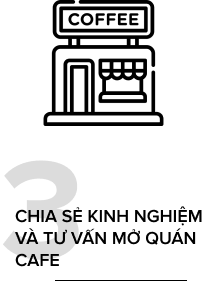
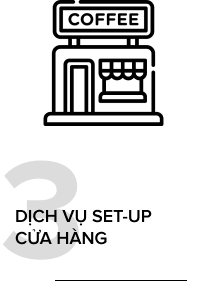
z

Changed region(s): [[0.0571, 0.6877, 0.9714, 0.897]]

diff --git a/src/components/Contact.vue b/src/components/Contact.vue
@@ -16,7 +16,7 @@
                 <p>{{contact.address}}</p>
 
                 <h3 class="contact-title">Hotline</h3>
-                <p>Tư vấn khóa học: {{contact.phone_first}}</p>
+                <p>Tư vấn khóa học: {{contact.phone_first}} / {{contact.phone_second}}</p>
                 <p>Tư vấn mở quán: {{contact.phone_first}}</p>
                 <p>Tư vấn thiết bị: {{contact.phone_first}}</p>
 
@@ -51,26 +51,26 @@
                     <div class="form-group flex">
                         <div class="form-column">
                             <label><span class="required">*</span> Họ tên</label>
-                            <input type="text">
+                            <input type="text" name="name" required v-model="contactData.name">
                         </div>
 
                         <div class="form-column">
                             <label><span class="required">*</span> Số điện thoại</label>
-                            <input type="text">
+                            <input type="text" name="phone" required v-model="contactData.phone">
                         </div>
                     </div>
 
                     <div class="form-group">
                         <label><span class="required">*</span> Email</label>
-                        <input type="text">
+                        <input type="email" name="email" required v-model="contactData.email">
                     </div>
 
                     <div class="form-group">
                         <label><span class="required">*</span> Lời nhắn</label>
-                        <textarea name="" id="" cols="30" rows="10"></textarea>
+                        <textarea id="" cols="30" rows="10" name="mesage" required v-model="contactData.mesage"></textarea>
                     </div>
 
-                    <a href="javascript:;" class="form-submit">Gửi lời nhắn</a>
+                    <a href="javascript:;" class="form-submit" @click="submit">Gửi lời nhắn</a>
                 </div>
             </div>
         </div>
@@ -81,7 +81,25 @@
 
 <script>
 export default {
-    props: ['contact']
+    props: ['contact'],
+    data() {
+        return {
+            contactData: {
+                name: '',
+                phone: '',
+                email: '',
+                message: ''
+            }
+        }
+    },
+    methods: {
+        submit: function() {
+            this.$http.post(this.$api + '/customer', this.contactData)
+                        .then(response => {
+                            alert(response.data.message)
+                        })
+        }
+    }
 }
 </script>
 

diff --git a/src/components/pages/home/Video.vue b/src/components/pages/home/Video.vue
@@ -8,12 +8,20 @@
                 <swiper-slide class="video-item" v-for="(slide, index) in swiperVideoSlides" :key="index">
                     <div class="video-item--thumb">
                         <img :src="slide.thumbnail" alt="">
-                        <span class="btnPlay"><i class="fal fa-play-circle"></i></span>
+                        <span class="btnPlay" @click="showVideoModal" :data-video="slide.embed"><i class="fal fa-play-circle"></i></span>
                     </div>
-                    <a href="#" class="video-item--title">{{slide.title}}</a>
+                    <a href="javascript:void(0);" class="video-item--title" @click="showVideoModal" :data-video="slide.embed">{{slide.title}}</a>
                     <p class="video-item--description">{{slide.description.length <= 150 ? slide.description : slide.description.substring(0, 150) + '...'}}</p>
                 </swiper-slide>
             </swiper>
+
+            <div class="video-modal hidden" id="videoWrapper" @click="closeModal">
+                <div class="video-modal--wrap">
+                    <div class="video-modal--wrap-main">
+                        <iframe src="https://www.youtube.com/embed/" frameborder="0" allow="accelerometer; autoplay; encrypted-media; gyroscope; picture-in-picture" allowfullscreen id="videoModal"></iframe>
+                    </div>
+                </div>
+            </div>
         </div>
     </div>
 </template>
@@ -36,6 +44,29 @@ export default {
                 this.swiperVideoSlides = response.data
                 return this.swiperVideoSlides;
             })
+    },
+    methods: {
+        showVideoModal: function() {
+            var video = event.currentTarget.getAttribute('data-video'),
+                modelEl = document.getElementById('videoWrapper'),
+                videoEl = document.getElementById('videoModal'),
+                defaultSrc = 'https://www.youtube.com/embed/';
+
+            var src = defaultSrc + video;
+            
+            document.body.classList.add('locked');
+            modelEl.classList.remove('hidden');
+            videoEl.setAttribute('src', src);
+        },
+        closeModal: function() {
+            var modelEl = document.getElementById('videoWrapper'),
+                videoEl = document.getElementById('videoModal'),
+                defaultSrc = 'https://www.youtube.com/embed/';
+
+            document.body.classList.remove('locked');
+            modelEl.classList.add('hidden');
+            videoEl.setAttribute('src', defaultSrc);
+        }
     }
 }
 </script>

diff --git a/src/components/layouts/Payment.vue b/src/components/layouts/Payment.vue
@@ -1,5 +1,5 @@
 <template>
-    <div class="payment">
+    <div class="payment" id="payment">
         <div class="payment-wrapper container">
             <div class="payment-title">Cách Thức Thanh Toán</div>
             <p class="payment-description">Bạn có thể đăng kí học bằng 1 trong 2 cách sau</p>
@@ -30,21 +30,21 @@
                         <div class="payment-form--group flex">
                             <div class="payment-form--column">
                                 <label>Họ tên</label>
-                                <input type="text">
+                                <input type="text" v-model="contactData.name" required>
                             </div>
 
                             <div class="payment-form--column">
                                 <label>Số điện thoại</label>
-                                <input type="text">
+                                <input type="text" v-model="contactData.phone" required>
                             </div>
                         </div>
 
                         <div class="payment-form--group">
                             <label>Email</label>
-                            <input type="text">
+                            <input type="text" v-model="contactData.email" required>
                         </div>
 
-                        <a href="#" class="payment-submit">Đăng ký ngay</a>
+                        <a href="javascript:void(0);" class="payment-submit" @click="submit">Đăng ký ngay</a>
                     </div>
 
                     <div class="payment-notice">
@@ -60,7 +60,24 @@
 
 <script>
 export default {
-
+    data() {
+        return {
+            contactData: {
+                name: '',
+                phone: '',
+                email: '',
+                message: ''
+            }
+        }
+    },
+    methods: {
+        submit: function() {
+            this.$http.post(this.$api + '/customer', this.contactData)
+                        .then(response => {
+                            alert(response.data.message)
+                        })
+        }
+    }
 }
 </script>
 

diff --git a/src/components/CourseDetail.vue b/src/components/CourseDetail.vue
@@ -17,7 +17,7 @@
                     <p class="cdetail-info--price">Học phí: {{course.price}}VNĐ</p>
                     <div class="btn-group">
                         <router-link :to="{name: 'course'}" class="btn"><i class="fal fa-chevron-left"></i> Các khóa học khác</router-link>
-                        <router-link :to="'/#'" class="btn btnRed">Đăng ký ngay</router-link>
+                        <router-link :to="'/#'" class="btn btnRed" @click="scrollToContact">Đăng ký ngay</router-link>
                     </div>
                     <p class="cdetail-info--note">* Khóa học gồm {{course.session}} buổi học x {{course.time}} tiếng mỗi buổi. Hãy đảm bảo bạn sắp xếp được thời gian.</p>
                 </div>
@@ -155,7 +155,7 @@ export default {
                 slidesPerView: 3,
                 spaceBetween: 20
             },
-            swiperGallerySlides: ''
+            swiperGallerySlides: '',
         }
     },
     beforeCreate() {
@@ -187,7 +187,7 @@ export default {
                 sessionItems[i].classList.remove('hidden')
             }
             event.target.style.display = "none";
-        }
+        },
     }
 }
 </script>

diff --git a/src/components/Course.vue b/src/components/Course.vue
@@ -17,7 +17,7 @@
                     <p class="course-item--info">Học phí: {{course.price}} VND/{{course.session}} buổi học/khóa (Thực hành không giới hạn)</p>
 
                     <div class="btn-group">
-                        <a href="javascript:;" class="btn btnRed">Đăng ký ngay</a>
+                        <a href="javascript:void(0);" class="btn btnRed" @click="scrollToContact">Đăng ký ngay</a>
                         <router-link :to="{name: 'course-detail', params: {id: course.id}}" class="btn btnWhite">Tìm hiểm thêm</router-link>
                     </div>
                 </div>
@@ -49,6 +49,12 @@ export default {
                         this.courses = response.data;
                         return this.courses
                     })
+    },
+    methods: {
+        scrollToContact: function() {
+            console.log(document.getElementById('payment').offsetTop)
+            window.scrollTo(0, document.getElementById('payment').offsetTop)
+        }
     }
 }
 </script>

diff --git a/src/assets/css/scss/pages/_home.scss b/src/assets/css/scss/pages/_home.scss
@@ -345,6 +345,36 @@
                 padding-right: 20px;
             }
         }
+        &-modal {
+            position: fixed;
+            top: 0;
+            bottom: 0;
+            left: 0;
+            right: 0;
+            background-color: rgba($black, .5);
+            z-index: 9999;
+            display: flex;
+            justify-content: center;
+            align-items: center;
+            &.hidden {
+                display: none;
+            }
+            &--wrap {
+                width: 980px;
+                &-main {
+                    width: 100%;
+                    padding-bottom: 56.25%;
+                    position: relative;
+                    iframe {
+                        position: absolute;
+                        top: 0;
+                        left: 0;
+                        width: 100%;
+                        height: 100%;
+                    }
+                }
+            }
+        }
     }
 
     .comment {

diff --git a/src/Main.vue b/src/Main.vue
@@ -20,7 +20,7 @@ export default {
                 address: 'Ô 3 Lô 4A KĐT Đền Lừ 2 - P. Hoàng Văn Thụ - Q. Hoàng Mai - Tp. Hà Nội',
                 facebook: 'https://www.facebook.com/hocphache.vn/',
                 instagram: '',
-                youtube: '',
+                youtube: 'https://www.youtube.com/channel/UCuqz2zxDAb1Sm9cf4NFH6yw',
                 map: '<iframe src="https://www.google.com/maps/embed?pb=!1m18!1m12!1m3!1d3725.203401217889!2d105.85613791540206!3d20.98448219466341!2m3!1f0!2f0!3f0!3m2!1i1024!2i768!4f13.1!3m3!1m2!1s0x3135ac6db365c785%3A0xdf353ac76f24762f!2zVHJ1bmcgdMOibSDEkcOgbyB04bqhbyBwaGEgY2jhur8gQmFyaXN0YSBTa2lsbHM!5e0!3m2!1svi!2s!4v1569700097917!5m2!1svi!2s" width="600" height="450" frameborder="0" style="border:0;" allowfullscreen=""></iframe>'
             }
         }

diff --git a/src/components/layouts/Footer.vue b/src/components/layouts/Footer.vue
@@ -17,13 +17,13 @@
 
                 <ul class="footer-list">
                     <li class="footer-item">
-                        <a href="#">Đào tạo pha chế</a>
+                        <a href="#">Đào tạo pha chế chuyên nghiệp</a>
                     </li>
                     <li class="footer-item">
-                        <a href="#">Tư vấn và Setup quán</a>
+                        <a href="#">Cung cấp máy móc, dụng cụ, nguyên liệu pha chế</a>
                     </li>
                     <li class="footer-item">
-                        <a href="#">Cung cấp nguyên liệu, dụng cụ và máy móc pha chế</a>
+                        <a href="#">Dịch vụ SET-UP cửa hàng</a>
                     </li>
                 </ul>
             </div>

diff --git a/src/components/layouts/Navigator.vue b/src/components/layouts/Navigator.vue
@@ -1,5 +1,5 @@
 <template>
-    <nav class="nav">
+    <nav class="nav" id="navigator">
         <div class="nav-wrapper container">
             <div class="nav-logo">
                 <router-link :to="{name: 'home'}">
@@ -33,7 +33,16 @@
 
 <script>
 export default {
-
+    mounted() {
+        window.addEventListener('scroll', function() {
+            var scrollTop = window.scrollY;
+            if(scrollTop > 50) {
+                document.getElementById('navigator').classList.add('fixed')
+            } else {
+                document.getElementById('navigator').classList.remove('fixed')
+            }
+        })
+    }
 }
 </script>
 

diff --git a/src/components/pages/home/Service.vue b/src/components/pages/home/Service.vue
@@ -5,7 +5,7 @@
             <p class="service-description">Đào Tạo Chuyên Nghiệp - Cầm Tay Chỉ Việc Từ A-Z</p>
 
             <div class="service-list">
-                <div class="service-item" v-for="index in 4" :key="index">
+                <div class="service-item" v-for="index in 3" :key="index">
                     <img :src="require('../../../assets/images/service-' + index + '.png')" alt="">
                 </div>
             </div>

diff --git a/src/main.js b/src/main.js
@@ -32,8 +32,8 @@ Vue.use(VCalendar, {
 });
 
 Vue.prototype.$http = axios
-Vue.prototype.$api = 'http://cms.baristaskill.vn/api'
-Vue.prototype.$asset = 'http://cms.baristaskill.vn/uploads/'
+Vue.prototype.$api = 'http://cms.baristaskills.vn/api'
+Vue.prototype.$asset = 'http://cms.baristaskills.vn/uploads/'
 
 Vue.prototype.$defaultTile = 'Trung tâm đào tạo pha chế Barista Skills'
 

diff --git a/src/components/pages/home/Banner.vue b/src/components/pages/home/Banner.vue
@@ -19,7 +19,7 @@
             </div>
 
             <div class="btn-group">
-                <a href="javascript:void(0);" class="btn btnRed">Đăng ký ngay</a>
+                <a href="javascript:void(0);" class="btn btnRed" @click="scrollToContact">Đăng ký ngay</a>
                 <router-link :to="'about'" class="btn btnGray">Xem chi tiết</router-link>
             </div>
 
